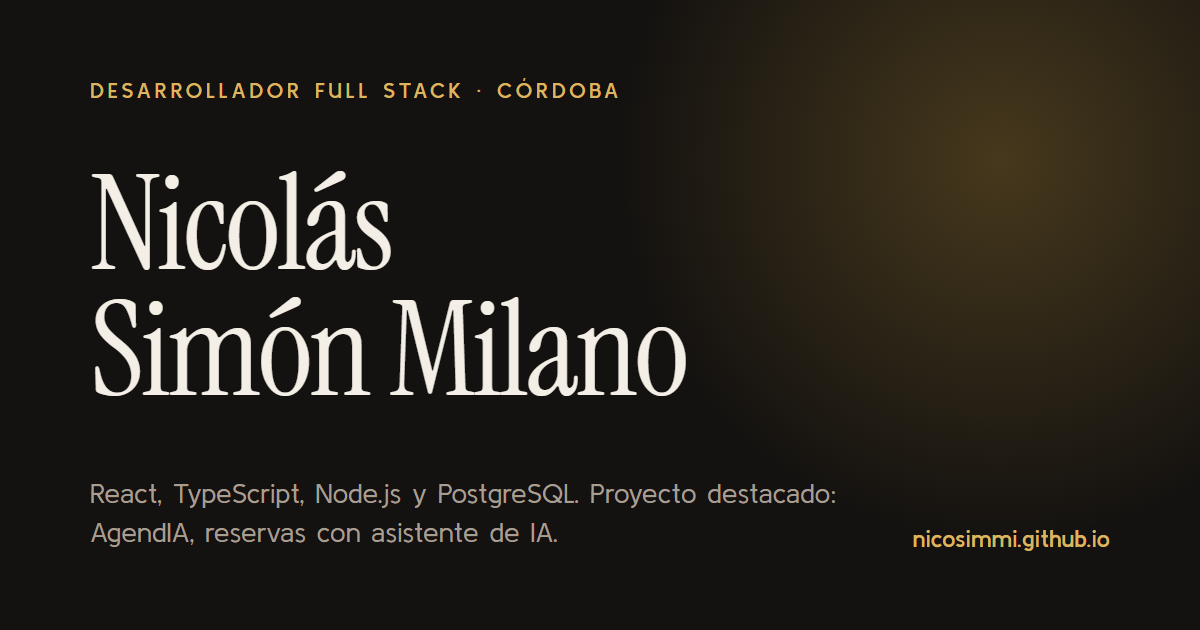
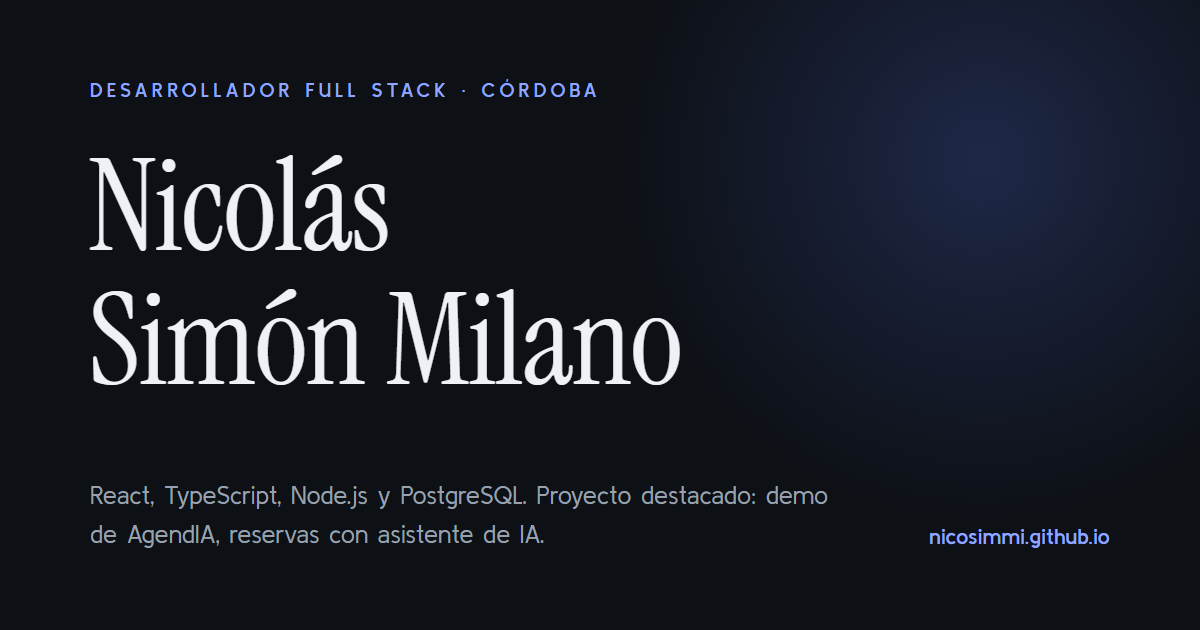
feat: paleta cobalto propia y AgendIA marcada como demo
La paleta dorada era la misma que la de AgendIA. Se cambian tokens,
favicon, theme-color e imagen OG. El texto deja claro que AgendIA es una
demo con datos ficticios.

diff --git a/index.html b/index.html
@@ -6,10 +6,10 @@
     <title>Nicolás Simón Milano · Desarrollador Full Stack</title>
     <meta
       name="description"
-      content="Portfolio de Nicolás Simón Milano, desarrollador Full Stack en Córdoba. React, TypeScript, Node.js, PostgreSQL y Docker. Proyecto destacado: AgendIA, una plataforma de reservas con asistente de IA."
+      content="Portfolio de Nicolás Simón Milano, desarrollador Full Stack en Córdoba. React, TypeScript, Node.js, PostgreSQL y Docker. Proyecto destacado: la demo de AgendIA, una plataforma de reservas con asistente de IA."
     />
-    <meta name="theme-color" content="#faf7f2" media="(prefers-color-scheme: light)" />
-    <meta name="theme-color" content="#141210" media="(prefers-color-scheme: dark)" />
+    <meta name="theme-color" content="#f5f6f8" media="(prefers-color-scheme: light)" />
+    <meta name="theme-color" content="#0d1015" media="(prefers-color-scheme: dark)" />
     <meta http-equiv="Content-Security-Policy" content="default-src 'self'; img-src 'self' data:; style-src 'self'; script-src 'self'; font-src 'self'; object-src 'none'; base-uri 'self'; form-action 'none'" />
     <meta name="referrer" content="strict-origin-when-cross-origin" />
     <link rel="canonical" href="https://nicosimmi.github.io/" />
@@ -20,7 +20,7 @@
     <meta property="og:title" content="Nicolás Simón Milano · Desarrollador Full Stack" />
     <meta
       property="og:description"
-      content="React, TypeScript, Node.js y PostgreSQL. Proyecto destacado: AgendIA, reservas con asistente de IA y servidor MCP."
+      content="React, TypeScript, Node.js y PostgreSQL. Proyecto destacado: demo de AgendIA, reservas con asistente de IA y servidor MCP."
     />
     <meta property="og:url" content="https://nicosimmi.github.io/" />
     <meta property="og:image" content="https://nicosimmi.github.io/img/og.png" />
@@ -81,7 +81,7 @@
             <li><span class="dot" aria-hidden="true"></span>Disponibilidad total</li>
           </ul>
           <div class="hero__cta">
-            <a class="btn btn--solid" href="#proyectos">Ver AgendIA
+            <a class="btn btn--solid" href="#proyectos">Ver la demo de AgendIA
               <svg viewBox="0 0 24 24" width="16" height="16" fill="none" stroke="currentColor" stroke-width="2" stroke-linecap="round" stroke-linejoin="round" aria-hidden="true"><path d="M12 5v14M6 13l6 6 6-6"/></svg>
             </a>
             <a class="btn" href="https://www.linkedin.com/in/nicolas-simon-milano/" target="_blank" rel="noopener noreferrer">LinkedIn</a>
@@ -124,14 +124,14 @@
 
           <article class="project reveal" aria-labelledby="t-agendia">
             <header class="project__head">
-              <p class="meta">Proyecto personal · Oct - Nov 2026</p>
+              <p class="meta">Proyecto personal · Demo · Oct - Nov 2026</p>
               <h3 id="t-agendia" class="h3">AgendIA</h3>
               <p class="project__lead">
-                Marketplace de reservas con asistente de IA. Los negocios se dan de alta y gestionan su agenda; los
+                Demo de un marketplace de reservas con asistente de IA. No es un producto ni tiene usuarios reales: lo hice para enseñar cómo trabajo de principio a fin. Los negocios se dan de alta y gestionan su agenda; los
                 clientes reservan con una interfaz de toda la vida o hablando con el asistente.
               </p>
               <div class="project__links">
-                <a class="btn btn--solid" href="https://nicosimmi.github.io/AgendIA/" target="_blank" rel="noopener noreferrer">Demo online
+                <a class="btn btn--solid" href="https://nicosimmi.github.io/AgendIA/" target="_blank" rel="noopener noreferrer">Probar la demo
                   <svg viewBox="0 0 24 24" width="16" height="16" fill="none" stroke="currentColor" stroke-width="2" stroke-linecap="round" stroke-linejoin="round" aria-hidden="true"><path d="M7 17 17 7M8 7h9v9"/></svg>
                 </a>
                 <a class="btn" href="https://github.com/nicosimmi/AgendIA" target="_blank" rel="noopener noreferrer">Código en GitHub</a>
@@ -182,7 +182,7 @@
             </ul>
 
             <p class="note">
-              En la demo el asistente sigue un guion, porque un modelo real necesita una API de pago. El código y la
+              Es una demo: funciona entera en el navegador, sin servidor ni registro, y todos los negocios, reservas y personas son ficticios. El asistente sigue un guion porque un modelo real necesita una API de pago. El código y la
               configuración del modelo están en el repositorio.
             </p>
 

diff --git a/styles.css b/styles.css
@@ -26,33 +26,33 @@
 }
 
 :root {
-  --bg: #faf7f2;
-  --bg-soft: #f2ede3;
+  --bg: #f5f6f8;
+  --bg-soft: #eceef2;
   --surface: #ffffff;
-  --ink: #1c1917;
-  --muted: #625b53;
-  --line: #e4ddd0;
-  --accent: #8a6516;
-  --accent-strong: #c89b3c;
+  --ink: #13161b;
+  --muted: #545b66;
+  --line: #dde1e7;
+  --accent: #2443c4;
+  --accent-strong: #5b7cfa;
   --accent-ink: #ffffff;
-  --glow: rgba(200, 155, 60, 0.16);
-  --shadow: 0 1px 2px rgba(28, 25, 23, 0.04), 0 14px 40px -18px rgba(28, 25, 23, 0.18);
+  --glow: rgba(91, 124, 250, 0.14);
+  --shadow: 0 1px 2px rgba(19, 22, 27, 0.04), 0 14px 40px -18px rgba(19, 22, 27, 0.18);
   --serif: "Instrument Serif", "Iowan Old Style", Georgia, serif;
   --sans: "Kulim Park", system-ui, -apple-system, "Segoe UI", sans-serif;
   --radius: 14px;
   color-scheme: light;
 }
 :root[data-theme="dark"] {
-  --bg: #141210;
-  --bg-soft: #1b1815;
-  --surface: #1d1a17;
-  --ink: #f3eee6;
-  --muted: #a69e92;
-  --line: #2c2823;
-  --accent: #dcb561;
-  --accent-strong: #c89b3c;
-  --accent-ink: #141210;
-  --glow: rgba(200, 155, 60, 0.12);
+  --bg: #0d1015;
+  --bg-soft: #12161c;
+  --surface: #151a21;
+  --ink: #eef1f5;
+  --muted: #98a1ad;
+  --line: #232a33;
+  --accent: #8fa6ff;
+  --accent-strong: #5b7cfa;
+  --accent-ink: #0d1015;
+  --glow: rgba(91, 124, 250, 0.12);
   --shadow: 0 1px 2px rgba(0, 0, 0, 0.3), 0 18px 44px -20px rgba(0, 0, 0, 0.7);
   color-scheme: dark;
 }
@@ -109,7 +109,7 @@ figure {
 }
 ::selection {
   background: var(--accent-strong);
-  color: #1c1917;
+  color: #13161b;
 }
 
 .wrap {
